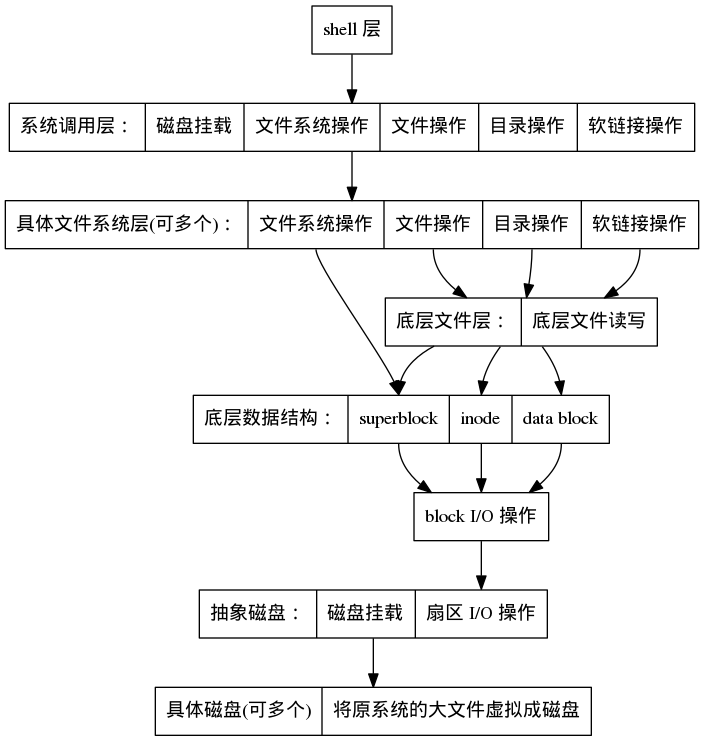
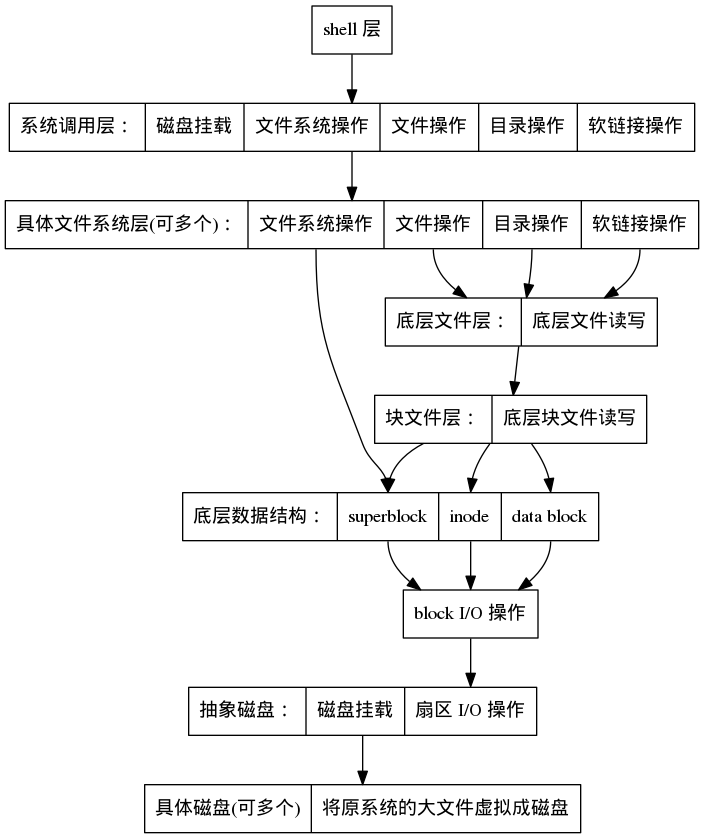
修改设计; 将混合索引方式的部分抽象出来，准备以更清晰的方法重写

Changed region(s): [[0.0, 0.0, 1.0, 1.0], [0.4688, 0.4035, 0.5312, 0.4966]]

diff --git a/fulfs/base_block_file.h b/fulfs/base_block_file.h
@@ -1,0 +1,13 @@
+#ifndef __FULFS__BASE_BLOCK_FILE__H__
+#define __FULFS__BASE_BLOCK_FILE__H__
+
+#include "superblock.h"
+#include "inode.h"
+#include "data_block.h"
+
+bool base_block_file_locate(device_handle_t device,  superblock_t sb, inode_t* inode, block_no_t block_relative);
+bool base_block_file_push_block(device_handle_t device, superblock_t sb, inode_t* inode, block_no_t* p_block_relative);
+bool base_block_file_pop_block(device_handle_t device, superblock_t sb, inode_t* inode, block_no_t* p_block_relative);
+
+
+#endif /* __FULFS__BASE_BLOCK_FILE__H__ */

diff --git a/fulfs/base_block_file.c b/fulfs/base_block_file.c
@@ -1,0 +1,21 @@
+#include "base_block_file.h"
+
+
+bool base_block_file_locate(device_handle_t device,  superblock_t sb, inode_t* inode, block_no_t block_relative)
+{
+    /* TODO */
+    return false;
+}
+
+bool base_block_file_push_block(device_handle_t device, superblock_t sb, inode_t* inode, block_no_t* p_block_relative)
+{
+    /* TODO */
+    return false;
+}
+
+bool base_block_file_pop_block(device_handle_t device, superblock_t sb, inode_t* inode, block_no_t* p_block_relative)
+{
+    /* TODO */
+    return false;
+}
+
